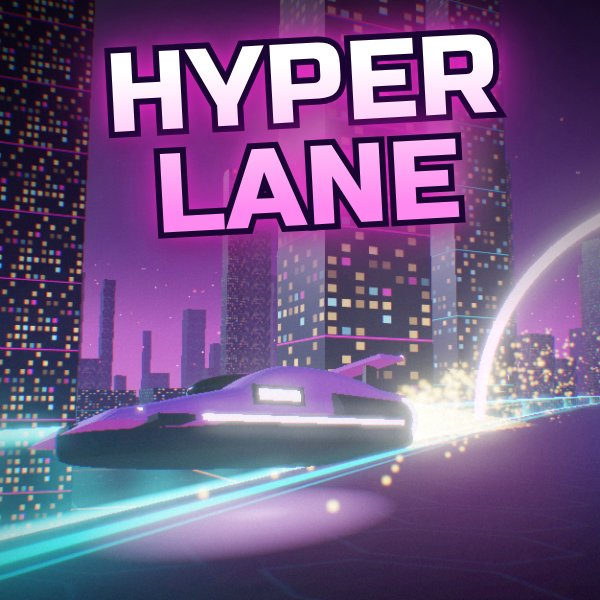
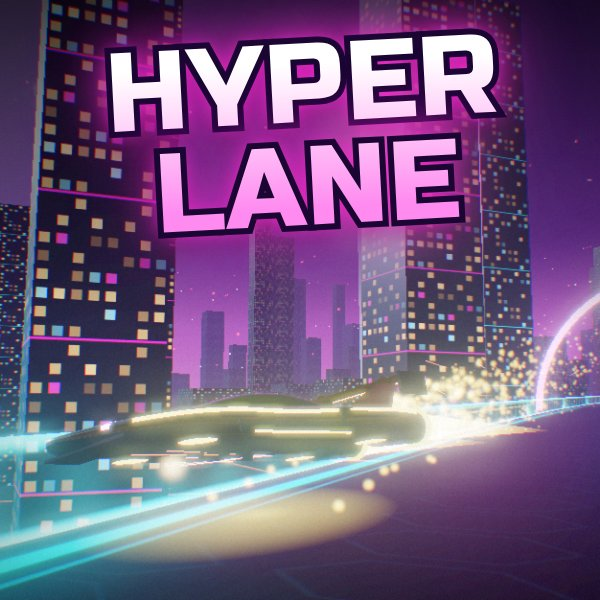
Hyperlane: sculpted sports hover car
The car body is now lofted from chiselled cross-sections (blade nose, wide
fenders, pinched waist, rear haunches) in deep clear-coated stealth paint,
with a fighter-style glass canopy, glowing shoulder lines, slanted light
slits, side blades, splitter, twin raked fins, a floating wing on swan-neck
struts, thruster nacelles and hover pads. New cover and screenshots.

Claude-Session: https://claude.ai/code/session_015d1ng3DQVJS16EdJCEDKYL

diff --git a/pulsebox/public/games/hyperlane.html b/pulsebox/public/games/hyperlane.html
@@ -507,47 +507,76 @@ const GAME = {
   }
 
   /* ---------- the hover cars ---------- */
+  // a body lofted from cross-sections along its length (rounded-square sections, flat underneath)
+  function loft(st, segs, n, sharp) {
+    const pos = [], idx = [];
+    const ring = q => {
+      if (!sharp) { const r = []; for (let j = 0; j < segs; j++) { const a = j / segs * TAU, c = Math.cos(a), si = Math.sin(a); r.push([q.w * Math.sign(c) * Math.pow(Math.abs(c), 2 / n), q.y + (si >= 0 ? q.t : q.b) * Math.sign(si) * Math.pow(Math.abs(si), 2 / n)]); } return r; }
+      const half = [[q.w * .82, q.y - q.b], [q.w, q.y - q.b * .25], [q.w * .985, q.y + q.t * .22], [q.w * .9, q.y + q.t * .42], [q.w * .62, q.y + q.t * .78], [q.w * .26, q.y + q.t * .97], [0, q.y + q.t]];
+      return [...half, ...half.slice(0, -1).reverse().map(([x, y]) => [-x, y]), [-q.w * .82, q.y - q.b].map((v, i) => v), [0, q.y - q.b]].filter((p, i, A) => i < A.length);
+    };
+    const rings = st.map(ring), S = rings[0].length, R = st.length;
+    rings.forEach((r, i) => r.forEach(([x, y]) => pos.push(x, y, st[i].z)));
+    for (let i = 0; i < R - 1; i++) for (let j = 0; j < S; j++) { const a = i * S + j, b = i * S + (j + 1) % S, c = a + S, d = b + S; idx.push(a, b, c, b, d, c); }
+    for (const [i, flip] of [[0, false], [R - 1, true]]) { const ci = pos.length / 3; pos.push(0, st[i].y, st[i].z); for (let j = 0; j < S; j++) { const a = i * S + j, b = i * S + (j + 1) % S; flip ? idx.push(ci, a, b) : idx.push(ci, b, a); } }
+    const geo = new THREE.BufferGeometry(); geo.setAttribute('position', new THREE.Float32BufferAttribute(pos, 3)); geo.setIndex(idx); geo.computeVertexNormals(); return geo;
+  }
+  // smooth the hand-placed sections with Catmull-Rom so the surface flows
+  function smoothSt(st, k) {
+    const out = [], cr = (p0, p1, p2, p3, t) => .5 * (2 * p1 + (-p0 + p2) * t + (2 * p0 - 5 * p1 + 4 * p2 - p3) * t * t + (-p0 + 3 * p1 - 3 * p2 + p3) * t * t * t);
+    for (let i = 0; i < st.length - 1; i++) for (let s = 0; s < k; s++) { const t = s / k, P = j => st[cl(j, 0, st.length - 1)], o = {}; for (const key of ['z', 'w', 'y', 't', 'b']) o[key] = cr(P(i - 1)[key], P(i)[key], P(i + 1)[key], P(i + 2)[key], t); out.push(o); }
+    out.push(st[st.length - 1]); return out;
+  }
+  const BODY = [ // z (nose -> tail), half width, centre height, height above and below the centre: a blade of a nose, wide fenders, a pinched waist, big rear haunches
+    { z: -3.05, w: .08, y: .42, t: 0.0342, b: .05 }, { z: -2.85, w: .42, y: .43, t: 0.0798, b: .08 }, { z: -2.45, w: .84, y: .46, t: 0.148, b: .11 }, { z: -1.8, w: 1.08, y: .5, t: 0.228, b: .14 },
+    { z: -1.1, w: 1.12, y: .52, t: 0.285, b: .15 }, { z: -.4, w: .97, y: .53, t: 0.331, b: .15 }, { z: .3, w: .95, y: .54, t: 0.353, b: .15 }, { z: 1.0, w: 1.15, y: .55, t: 0.353, b: .15 },
+    { z: 1.7, w: 1.23, y: .56, t: 0.331, b: .15 }, { z: 2.3, w: 1.18, y: .57, t: 0.274, b: .14 }, { z: 2.55, w: 1.02, y: .57, t: 0.194, b: .12 }];
+  const CANOPY = [{ z: -1.55, w: .06, y: .72, t: .02, b: .02 }, { z: -1.05, w: .4, y: .75, t: .13, b: .03 }, { z: -.4, w: .52, y: .78, t: .27, b: .03 }, { z: .3, w: .5, y: .81, t: .29, b: .03 },
+    { z: .95, w: .4, y: .83, t: .19, b: .03 }, { z: 1.5, w: .2, y: .84, t: .08, b: .02 }, { z: 1.8, w: .05, y: .84, t: .02, b: .02 }];
+  let BODYGEO = null;
   function carModel(col) {
     const g = new THREE.Group(), body = new THREE.Group(); g.add(body);
-    const paint = new THREE.MeshStandardMaterial({ color: col, metalness: .5, roughness: .3, envMapIntensity: 1 });
-    const carbon = new THREE.MeshStandardMaterial({ color: '#10121b', metalness: .6, roughness: .42, envMapIntensity: 1 });
-    const glass = new THREE.MeshStandardMaterial({ color: '#08101e', metalness: .95, roughness: .05, envMapIntensity: 2.2 });
-    const glow = new THREE.MeshBasicMaterial({ color: hdr(col, 2.2) }), white = new THREE.MeshBasicMaterial({ color: hdr('#cfeaff', 2.6) }), red = new THREE.MeshBasicMaterial({ color: hdr('#ff1f45', 2.4) });
-    const sh = new THREE.Shape();   // the hover base, seen from above: a long arrowhead
-    sh.moveTo(0, -2.85); sh.bezierCurveTo(.45, -2.75, .8, -1.8, 1.02, -.5); sh.lineTo(1.12, 1.6); sh.quadraticCurveTo(1.08, 2.3, .66, 2.36); sh.lineTo(-.66, 2.36); sh.quadraticCurveTo(-1.08, 2.3, -1.12, 1.6); sh.lineTo(-1.02, -.5); sh.bezierCurveTo(-.8, -1.8, -.45, -2.75, 0, -2.85);
-    const base = new THREE.ExtrudeGeometry(sh, { depth: .2, bevelEnabled: true, bevelThickness: .1, bevelSize: .1, bevelSegments: 2, curveSegments: 12 });
-    base.rotateX(Math.PI / 2); base.translate(0, .5, 0);
-    const add = (geo, mat, x = 0, y = 0, z = 0, p) => { const m = new THREE.Mesh(geo, mat); m.position.set(x, y, z); (p || body).add(m); return m; };
-    add(base, carbon);
-    // the cabin, from a side profile: low nose, raked screen, roof, sloping rear deck
-    const pr = new THREE.Shape();
-    pr.moveTo(-2.75, .5); pr.quadraticCurveTo(-2.2, .58, -1.7, .7); pr.lineTo(-.85, .86); pr.quadraticCurveTo(-.45, 1.18, .1, 1.2); pr.lineTo(.75, 1.18); pr.quadraticCurveTo(1.35, 1.1, 1.75, .96); pr.lineTo(2.3, .9); pr.lineTo(2.3, .5); pr.lineTo(-2.75, .5);
-    const cab = new THREE.ExtrudeGeometry(pr, { depth: 1.5, bevelEnabled: true, bevelThickness: .22, bevelSize: .14, bevelSegments: 4, curveSegments: 12 });
-    cab.rotateY(-Math.PI / 2); cab.translate(.75, 0, 0); add(cab, paint);
-    const can = new THREE.SphereGeometry(.6, 22, 12); can.scale(.95, .42, 1.55); add(can, glass, 0, 1.12, -.12);
-    add(new THREE.BoxGeometry(2.36, .07, .5), carbon, 0, .5, -2.1);   // front splitter
-    add(new THREE.BoxGeometry(1.9, .04, .05), white, 0, .62, -2.42);   // headlight bar
-    for (const sx of [-1, 1]) {
-      const eng = new THREE.CylinderGeometry(.3, .36, 1.6, 18); eng.rotateX(Math.PI / 2); add(eng, carbon, sx * .82, .62, 1.45);
-      add(new THREE.TorusGeometry(.31, .05, 6, 22), glow, sx * .82, .62, 2.25);
-      add(new THREE.CircleGeometry(.26, 18), new THREE.MeshBasicMaterial({ color: hdr(col, 3.4) }), sx * .82, .62, 2.26);
-      add(new THREE.BoxGeometry(.05, .07, 3.6), glow, sx * 1.2, .5, .05);                 // light strips along the base
-      add(new THREE.BoxGeometry(.18, .26, .9), carbon, sx * .9, .86, -.35);               // side intakes
-      add(new THREE.BoxGeometry(.04, .14, .7), glow, sx * 1.0, .86, -.35);
-      const st = add(new THREE.BoxGeometry(.07, .5, .25), carbon, sx * .6, 1.28, 1.95); st.rotation.x = .25;   // wing struts
+    if (!BODYGEO) {
+      const bs = smoothSt(BODY, 4);
+      BODYGEO = { body: loft(bs, 36, 3.4, true), floor: loft(bs.map(q => ({ z: q.z, w: q.w * 1.035, y: q.y - q.b * .55, t: q.b * .3, b: q.b * .55 })), 28, 3), canopy: loft(smoothSt(CANOPY, 4), 30, 2.6),
+        line: [-1, 1].map(sx => new THREE.TubeGeometry(new THREE.CatmullRomCurve3(bs.filter(q => q.z > -2.5 && q.z < 2.35).map(q => new THREE.Vector3(sx * q.w * .955, q.y + q.t * .43, q.z))), 48, .028, 5)) };
     }
-    add(new THREE.BoxGeometry(2.1, .07, .55), paint, 0, 1.55, 2.02);
-    add(new THREE.BoxGeometry(2.1, .03, .06), glow, 0, 1.59, 2.29);
-    add(new THREE.BoxGeometry(1.5, .08, .05), red, 0, .82, 2.42);
+    const deep = new THREE.Color(col).lerp(new THREE.Color('#05050a'), .66);
+    const paint = new THREE.MeshPhysicalMaterial({ color: deep, metalness: .82, roughness: .22, clearcoat: 1, clearcoatRoughness: .03, envMapIntensity: 1.05 });
+    const carbon = new THREE.MeshStandardMaterial({ color: '#0d0f16', metalness: .55, roughness: .38, envMapIntensity: .9 });
+    const glass = new THREE.MeshPhysicalMaterial({ color: '#04060c', metalness: .9, roughness: .04, clearcoat: 1, clearcoatRoughness: .02, envMapIntensity: 2.2 });
+    const glow = new THREE.MeshBasicMaterial({ color: hdr(col, 2.4) }), eye = new THREE.MeshBasicMaterial({ color: hdr('#d8f2ff', 3.2) }), red = new THREE.MeshBasicMaterial({ color: hdr('#ff1838', 2.6) });
+    const add = (geo, mat, x = 0, y = 0, z = 0, rx = 0, ry = 0, rz = 0) => { const m = new THREE.Mesh(geo, mat); m.position.set(x, y, z); m.rotation.set(rx, ry, rz); body.add(m); return m; };
+    add(BODYGEO.body, paint); add(BODYGEO.floor, carbon); add(BODYGEO.canopy, glass); BODYGEO.line.forEach(l => add(l, glow));
+    // the face: slanted light slits like narrowed eyes, a glowing intake and a carbon splitter
+    for (const sx of [-1, 1]) { add(new THREE.BoxGeometry(.6, .045, .07), eye, sx * .47, .53, -2.55, 0, sx * .7, -sx * .24); add(new THREE.BoxGeometry(.3, .03, .05), eye, sx * .74, .5, -2.3, 0, sx * .9, -sx * .3); }
+    add(new THREE.BoxGeometry(1.0, .03, .04), glow, 0, .39, -2.72);
+    add(new THREE.BoxGeometry(2.05, .035, .55), carbon, 0, .33, -2.42);
+    for (const sx of [-1, 1]) {
+      add(new THREE.BoxGeometry(.04, .17, 2.1), carbon, sx * 1.16, .42, -.15, 0, 0, sx * .22);              // side blades
+      add(new THREE.BoxGeometry(.03, .03, 1.7), glow, sx * 1.19, .35, -.15);
+      add(new THREE.BoxGeometry(.08, .2, .5), carbon, sx * 1.06, .62, .95, 0, sx * .12, 0);                // haunch intakes
+      const nac = new THREE.CylinderGeometry(.25, .31, 1.0, 20); nac.rotateX(Math.PI / 2); add(nac, carbon, sx * .68, .55, 2.3);
+      add(new THREE.TorusGeometry(.27, .05, 8, 24), new THREE.MeshBasicMaterial({ color: hdr(col, 1.6) }), sx * .68, .55, 2.8);
+      add(new THREE.CircleGeometry(.23, 20), new THREE.MeshBasicMaterial({ color: hdr(col, 1.7) }), sx * .68, .55, 2.81);
+      add(new THREE.BoxGeometry(.05, .5, .13), carbon, sx * .48, 1.02, 2.12, -.35, 0, 0);                   // swan-neck wing struts
+      add(new THREE.BoxGeometry(.05, .34, .62), carbon, sx * 1.22, 1.12, 2.2);                             // wing end plates
+      for (const sz of [-1, 1]) add(new THREE.CircleGeometry(.24, 16), glow, sx * .78, .3, sz * 1.55, Math.PI / 2);   // hover pads
+    }
+    for (const sx of [-1, 1]) { const fin = new THREE.Shape(); fin.moveTo(0, 0); fin.lineTo(.95, 0); fin.lineTo(1.05, .5); fin.lineTo(.75, .52); fin.closePath(); const fg = new THREE.ExtrudeGeometry(fin, { depth: .04, bevelEnabled: false }); fg.rotateY(-Math.PI / 2); add(fg, paint, sx * .62, .82, 1.35, 0, 0, -sx * .2); }
+    add(new THREE.BoxGeometry(2.44, .05, .5), paint, 0, 1.25, 2.2, -.1);
+    add(new THREE.BoxGeometry(2.44, .025, .04), glow, 0, 1.25, 2.46);
+    add(new THREE.BoxGeometry(1.95, .045, .04), red, 0, .72, 2.5);
+    add(new THREE.BoxGeometry(.6, .03, .04), red, 0, .5, 2.52);
     // underglow on the road and the engine flames
     const ug = new THREE.Mesh(new THREE.PlaneGeometry(3.6, 6.4).rotateX(-Math.PI / 2), new THREE.MeshBasicMaterial({ map: X.glowTex, color: hdr(col, 1.1), blending: THREE.AdditiveBlending, transparent: true, depthWrite: false }));
     ug.position.y = -.56; g.add(ug);
     const flames = [];
     for (const sx of [-1, 1]) {
-      const fg = new THREE.ConeGeometry(.24, 1.8, 12, 1, true); fg.rotateX(Math.PI / 2); fg.translate(0, 0, .9);
+      const fg = new THREE.ConeGeometry(.17, 1.8, 12, 1, true); fg.rotateX(Math.PI / 2); fg.translate(0, 0, .9);
       const fm = new THREE.ShaderMaterial({ uniforms: { col: { value: hdr(col, 3) }, k: { value: 1 } }, vertexShader: 'varying float vT; void main(){ vT = position.z / 1.8; gl_Position = projectionMatrix * modelViewMatrix * vec4(position, 1.); }',
         fragmentShader: 'uniform vec3 col; uniform float k; varying float vT; void main(){ gl_FragColor = vec4(col * pow(1. - vT, 1.6) * k, 1.); }', blending: THREE.AdditiveBlending, depthWrite: false, transparent: true, side: THREE.DoubleSide });
-      const f = new THREE.Mesh(fg, fm); f.position.set(sx * .82, .62, 2.25); body.add(f); flames.push(f);
+      const f = new THREE.Mesh(fg, fm); f.position.set(sx * .68, .55, 2.8); body.add(f); flames.push(f);
     }
     return { g, body, ug, flames, paint, glow };
   }
@@ -559,7 +588,7 @@ const GAME = {
     }
     return v;
   }
-  function clearCars() { for (const v of X.cars.values()) { X.scene.remove(v.g, v.trails[0].mesh, v.trails[1].mesh); v.g.traverse(o => { if (o.geometry) o.geometry.dispose(); }); v.trails.forEach(t => t.geo.dispose()); } X.cars.clear(); }
+  function clearCars() { const keep = BODYGEO ? new Set([BODYGEO.body, BODYGEO.floor, BODYGEO.canopy, ...BODYGEO.line]) : new Set(); for (const v of X.cars.values()) { X.scene.remove(v.g, v.trails[0].mesh, v.trails[1].mesh); v.g.traverse(o => { if (o.geometry && !keep.has(o.geometry)) o.geometry.dispose(); }); v.trails.forEach(t => t.geo.dispose()); } X.cars.clear(); }
 
   /* ---------- the track: road, energy rails, light gates, boost pads, the start gantry, pillars ---------- */
   function ribbon(T, a0, h0, a1, h1, vs, step = 1) {
@@ -1043,13 +1072,13 @@ const GAME = {
       v.pitch = lp(v.pitch || 0, (c.turbo > 0 || c.odT > 0 ? .05 : 0) - (c.inp.brake ? .05 : 0), Math.min(1, dt * 5));
       v.body.rotation.set(v.pitch, v.slip, v.roll);
       const boost = c.odT > 0 ? 3 : c.turbo > 0 ? 2 : c.padT > 0 ? 1.4 : 0, fl = .45 + (race.t > 0 ? .5 : .1) + boost * .7 + Math.random() * .25;
-      const fc = c.odT > 0 ? col('#ffd0ff', 3.2) : c.turbo > 0 ? col(TCOL[c.tlvl], 2.8) : col(c.col, 1.8);
+      const fc = c.odT > 0 ? col('#ffd0ff', 2.6) : c.turbo > 0 ? col(TCOL[c.tlvl], 2.2) : col(c.col, 1.25);
       v.flames.forEach(f => { f.scale.set(1 + boost * .15, 1 + boost * .15, fl); f.material.uniforms.col.value = fc; });
       v.ug.material.color.copy(col(c.col, .32 + Math.round(c.v / 30) * .06 + (c.drift ? .25 : 0)));
       // ribbons from both engines
       const tc = c.odT > 0 ? col('#ff7ae8', 1.6) : c.turbo > 0 ? col(TCOL[c.tlvl], 1.4) : c.padT > 0 ? col(D.c2, 1.2) : col(c.col, .6);
       for (let k = 0; k < 2; k++) {
-        const sx = k ? .82 : -.82, np = [0, 0, 0]; for (let i = 0; i < 3; i++) np[i] = P.p[i] + P.r[i] * sx + P.u[i] * .62 - P.f[i] * 2.4;
+        const sx = k ? .68 : -.68, np = [0, 0, 0]; for (let i = 0; i < 3; i++) np[i] = P.p[i] + P.r[i] * sx + P.u[i] * .55 - P.f[i] * 2.95;
         const tr = v.trails[k], mine = race.cam.mode === 'chase' && c === race.cars[race.me]; tr.mesh.visible = true; tr.mat.uniforms.col.value = tc; stepTrail(tr, np, P.r, boost ? .3 : .2, race.t > 0 ? (mine ? .35 : 1) : 0);
       }
       // drift sparks under the tail, coloured by the charge

diff --git a/pulsebox/src/games/hyperlane.js b/pulsebox/src/games/hyperlane.js
@@ -336,47 +336,76 @@ const GAME = {
   }
 
   /* ---------- the hover cars ---------- */
+  // a body lofted from cross-sections along its length (rounded-square sections, flat underneath)
+  function loft(st, segs, n, sharp) {
+    const pos = [], idx = [];
+    const ring = q => {
+      if (!sharp) { const r = []; for (let j = 0; j < segs; j++) { const a = j / segs * TAU, c = Math.cos(a), si = Math.sin(a); r.push([q.w * Math.sign(c) * Math.pow(Math.abs(c), 2 / n), q.y + (si >= 0 ? q.t : q.b) * Math.sign(si) * Math.pow(Math.abs(si), 2 / n)]); } return r; }
+      const half = [[q.w * .82, q.y - q.b], [q.w, q.y - q.b * .25], [q.w * .985, q.y + q.t * .22], [q.w * .9, q.y + q.t * .42], [q.w * .62, q.y + q.t * .78], [q.w * .26, q.y + q.t * .97], [0, q.y + q.t]];
+      return [...half, ...half.slice(0, -1).reverse().map(([x, y]) => [-x, y]), [-q.w * .82, q.y - q.b].map((v, i) => v), [0, q.y - q.b]].filter((p, i, A) => i < A.length);
+    };
+    const rings = st.map(ring), S = rings[0].length, R = st.length;
+    rings.forEach((r, i) => r.forEach(([x, y]) => pos.push(x, y, st[i].z)));
+    for (let i = 0; i < R - 1; i++) for (let j = 0; j < S; j++) { const a = i * S + j, b = i * S + (j + 1) % S, c = a + S, d = b + S; idx.push(a, b, c, b, d, c); }
+    for (const [i, flip] of [[0, false], [R - 1, true]]) { const ci = pos.length / 3; pos.push(0, st[i].y, st[i].z); for (let j = 0; j < S; j++) { const a = i * S + j, b = i * S + (j + 1) % S; flip ? idx.push(ci, a, b) : idx.push(ci, b, a); } }
+    const geo = new THREE.BufferGeometry(); geo.setAttribute('position', new THREE.Float32BufferAttribute(pos, 3)); geo.setIndex(idx); geo.computeVertexNormals(); return geo;
+  }
+  // smooth the hand-placed sections with Catmull-Rom so the surface flows
+  function smoothSt(st, k) {
+    const out = [], cr = (p0, p1, p2, p3, t) => .5 * (2 * p1 + (-p0 + p2) * t + (2 * p0 - 5 * p1 + 4 * p2 - p3) * t * t + (-p0 + 3 * p1 - 3 * p2 + p3) * t * t * t);
+    for (let i = 0; i < st.length - 1; i++) for (let s = 0; s < k; s++) { const t = s / k, P = j => st[cl(j, 0, st.length - 1)], o = {}; for (const key of ['z', 'w', 'y', 't', 'b']) o[key] = cr(P(i - 1)[key], P(i)[key], P(i + 1)[key], P(i + 2)[key], t); out.push(o); }
+    out.push(st[st.length - 1]); return out;
+  }
+  const BODY = [ // z (nose -> tail), half width, centre height, height above and below the centre: a blade of a nose, wide fenders, a pinched waist, big rear haunches
+    { z: -3.05, w: .08, y: .42, t: 0.0342, b: .05 }, { z: -2.85, w: .42, y: .43, t: 0.0798, b: .08 }, { z: -2.45, w: .84, y: .46, t: 0.148, b: .11 }, { z: -1.8, w: 1.08, y: .5, t: 0.228, b: .14 },
+    { z: -1.1, w: 1.12, y: .52, t: 0.285, b: .15 }, { z: -.4, w: .97, y: .53, t: 0.331, b: .15 }, { z: .3, w: .95, y: .54, t: 0.353, b: .15 }, { z: 1.0, w: 1.15, y: .55, t: 0.353, b: .15 },
+    { z: 1.7, w: 1.23, y: .56, t: 0.331, b: .15 }, { z: 2.3, w: 1.18, y: .57, t: 0.274, b: .14 }, { z: 2.55, w: 1.02, y: .57, t: 0.194, b: .12 }];
+  const CANOPY = [{ z: -1.55, w: .06, y: .72, t: .02, b: .02 }, { z: -1.05, w: .4, y: .75, t: .13, b: .03 }, { z: -.4, w: .52, y: .78, t: .27, b: .03 }, { z: .3, w: .5, y: .81, t: .29, b: .03 },
+    { z: .95, w: .4, y: .83, t: .19, b: .03 }, { z: 1.5, w: .2, y: .84, t: .08, b: .02 }, { z: 1.8, w: .05, y: .84, t: .02, b: .02 }];
+  let BODYGEO = null;
   function carModel(col) {
     const g = new THREE.Group(), body = new THREE.Group(); g.add(body);
-    const paint = new THREE.MeshStandardMaterial({ color: col, metalness: .5, roughness: .3, envMapIntensity: 1 });
-    const carbon = new THREE.MeshStandardMaterial({ color: '#10121b', metalness: .6, roughness: .42, envMapIntensity: 1 });
-    const glass = new THREE.MeshStandardMaterial({ color: '#08101e', metalness: .95, roughness: .05, envMapIntensity: 2.2 });
-    const glow = new THREE.MeshBasicMaterial({ color: hdr(col, 2.2) }), white = new THREE.MeshBasicMaterial({ color: hdr('#cfeaff', 2.6) }), red = new THREE.MeshBasicMaterial({ color: hdr('#ff1f45', 2.4) });
-    const sh = new THREE.Shape();   // the hover base, seen from above: a long arrowhead
-    sh.moveTo(0, -2.85); sh.bezierCurveTo(.45, -2.75, .8, -1.8, 1.02, -.5); sh.lineTo(1.12, 1.6); sh.quadraticCurveTo(1.08, 2.3, .66, 2.36); sh.lineTo(-.66, 2.36); sh.quadraticCurveTo(-1.08, 2.3, -1.12, 1.6); sh.lineTo(-1.02, -.5); sh.bezierCurveTo(-.8, -1.8, -.45, -2.75, 0, -2.85);
-    const base = new THREE.ExtrudeGeometry(sh, { depth: .2, bevelEnabled: true, bevelThickness: .1, bevelSize: .1, bevelSegments: 2, curveSegments: 12 });
-    base.rotateX(Math.PI / 2); base.translate(0, .5, 0);
-    const add = (geo, mat, x = 0, y = 0, z = 0, p) => { const m = new THREE.Mesh(geo, mat); m.position.set(x, y, z); (p || body).add(m); return m; };
-    add(base, carbon);
-    // the cabin, from a side profile: low nose, raked screen, roof, sloping rear deck
-    const pr = new THREE.Shape();
-    pr.moveTo(-2.75, .5); pr.quadraticCurveTo(-2.2, .58, -1.7, .7); pr.lineTo(-.85, .86); pr.quadraticCurveTo(-.45, 1.18, .1, 1.2); pr.lineTo(.75, 1.18); pr.quadraticCurveTo(1.35, 1.1, 1.75, .96); pr.lineTo(2.3, .9); pr.lineTo(2.3, .5); pr.lineTo(-2.75, .5);
-    const cab = new THREE.ExtrudeGeometry(pr, { depth: 1.5, bevelEnabled: true, bevelThickness: .22, bevelSize: .14, bevelSegments: 4, curveSegments: 12 });
-    cab.rotateY(-Math.PI / 2); cab.translate(.75, 0, 0); add(cab, paint);
-    const can = new THREE.SphereGeometry(.6, 22, 12); can.scale(.95, .42, 1.55); add(can, glass, 0, 1.12, -.12);
-    add(new THREE.BoxGeometry(2.36, .07, .5), carbon, 0, .5, -2.1);   // front splitter
-    add(new THREE.BoxGeometry(1.9, .04, .05), white, 0, .62, -2.42);   // headlight bar
-    for (const sx of [-1, 1]) {
-      const eng = new THREE.CylinderGeometry(.3, .36, 1.6, 18); eng.rotateX(Math.PI / 2); add(eng, carbon, sx * .82, .62, 1.45);
-      add(new THREE.TorusGeometry(.31, .05, 6, 22), glow, sx * .82, .62, 2.25);
-      add(new THREE.CircleGeometry(.26, 18), new THREE.MeshBasicMaterial({ color: hdr(col, 3.4) }), sx * .82, .62, 2.26);
-      add(new THREE.BoxGeometry(.05, .07, 3.6), glow, sx * 1.2, .5, .05);                 // light strips along the base
-      add(new THREE.BoxGeometry(.18, .26, .9), carbon, sx * .9, .86, -.35);               // side intakes
-      add(new THREE.BoxGeometry(.04, .14, .7), glow, sx * 1.0, .86, -.35);
-      const st = add(new THREE.BoxGeometry(.07, .5, .25), carbon, sx * .6, 1.28, 1.95); st.rotation.x = .25;   // wing struts
+    if (!BODYGEO) {
+      const bs = smoothSt(BODY, 4);
+      BODYGEO = { body: loft(bs, 36, 3.4, true), floor: loft(bs.map(q => ({ z: q.z, w: q.w * 1.035, y: q.y - q.b * .55, t: q.b * .3, b: q.b * .55 })), 28, 3), canopy: loft(smoothSt(CANOPY, 4), 30, 2.6),
+        line: [-1, 1].map(sx => new THREE.TubeGeometry(new THREE.CatmullRomCurve3(bs.filter(q => q.z > -2.5 && q.z < 2.35).map(q => new THREE.Vector3(sx * q.w * .955, q.y + q.t * .43, q.z))), 48, .028, 5)) };
     }
-    add(new THREE.BoxGeometry(2.1, .07, .55), paint, 0, 1.55, 2.02);
-    add(new THREE.BoxGeometry(2.1, .03, .06), glow, 0, 1.59, 2.29);
-    add(new THREE.BoxGeometry(1.5, .08, .05), red, 0, .82, 2.42);
+    const deep = new THREE.Color(col).lerp(new THREE.Color('#05050a'), .66);
+    const paint = new THREE.MeshPhysicalMaterial({ color: deep, metalness: .82, roughness: .22, clearcoat: 1, clearcoatRoughness: .03, envMapIntensity: 1.05 });
+    const carbon = new THREE.MeshStandardMaterial({ color: '#0d0f16', metalness: .55, roughness: .38, envMapIntensity: .9 });
+    const glass = new THREE.MeshPhysicalMaterial({ color: '#04060c', metalness: .9, roughness: .04, clearcoat: 1, clearcoatRoughness: .02, envMapIntensity: 2.2 });
+    const glow = new THREE.MeshBasicMaterial({ color: hdr(col, 2.4) }), eye = new THREE.MeshBasicMaterial({ color: hdr('#d8f2ff', 3.2) }), red = new THREE.MeshBasicMaterial({ color: hdr('#ff1838', 2.6) });
+    const add = (geo, mat, x = 0, y = 0, z = 0, rx = 0, ry = 0, rz = 0) => { const m = new THREE.Mesh(geo, mat); m.position.set(x, y, z); m.rotation.set(rx, ry, rz); body.add(m); return m; };
+    add(BODYGEO.body, paint); add(BODYGEO.floor, carbon); add(BODYGEO.canopy, glass); BODYGEO.line.forEach(l => add(l, glow));
+    // the face: slanted light slits like narrowed eyes, a glowing intake and a carbon splitter
+    for (const sx of [-1, 1]) { add(new THREE.BoxGeometry(.6, .045, .07), eye, sx * .47, .53, -2.55, 0, sx * .7, -sx * .24); add(new THREE.BoxGeometry(.3, .03, .05), eye, sx * .74, .5, -2.3, 0, sx * .9, -sx * .3); }
+    add(new THREE.BoxGeometry(1.0, .03, .04), glow, 0, .39, -2.72);
+    add(new THREE.BoxGeometry(2.05, .035, .55), carbon, 0, .33, -2.42);
+    for (const sx of [-1, 1]) {
+      add(new THREE.BoxGeometry(.04, .17, 2.1), carbon, sx * 1.16, .42, -.15, 0, 0, sx * .22);              // side blades
+      add(new THREE.BoxGeometry(.03, .03, 1.7), glow, sx * 1.19, .35, -.15);
+      add(new THREE.BoxGeometry(.08, .2, .5), carbon, sx * 1.06, .62, .95, 0, sx * .12, 0);                // haunch intakes
+      const nac = new THREE.CylinderGeometry(.25, .31, 1.0, 20); nac.rotateX(Math.PI / 2); add(nac, carbon, sx * .68, .55, 2.3);
+      add(new THREE.TorusGeometry(.27, .05, 8, 24), new THREE.MeshBasicMaterial({ color: hdr(col, 1.6) }), sx * .68, .55, 2.8);
+      add(new THREE.CircleGeometry(.23, 20), new THREE.MeshBasicMaterial({ color: hdr(col, 1.7) }), sx * .68, .55, 2.81);
+      add(new THREE.BoxGeometry(.05, .5, .13), carbon, sx * .48, 1.02, 2.12, -.35, 0, 0);                   // swan-neck wing struts
+      add(new THREE.BoxGeometry(.05, .34, .62), carbon, sx * 1.22, 1.12, 2.2);                             // wing end plates
+      for (const sz of [-1, 1]) add(new THREE.CircleGeometry(.24, 16), glow, sx * .78, .3, sz * 1.55, Math.PI / 2);   // hover pads
+    }
+    for (const sx of [-1, 1]) { const fin = new THREE.Shape(); fin.moveTo(0, 0); fin.lineTo(.95, 0); fin.lineTo(1.05, .5); fin.lineTo(.75, .52); fin.closePath(); const fg = new THREE.ExtrudeGeometry(fin, { depth: .04, bevelEnabled: false }); fg.rotateY(-Math.PI / 2); add(fg, paint, sx * .62, .82, 1.35, 0, 0, -sx * .2); }
+    add(new THREE.BoxGeometry(2.44, .05, .5), paint, 0, 1.25, 2.2, -.1);
+    add(new THREE.BoxGeometry(2.44, .025, .04), glow, 0, 1.25, 2.46);
+    add(new THREE.BoxGeometry(1.95, .045, .04), red, 0, .72, 2.5);
+    add(new THREE.BoxGeometry(.6, .03, .04), red, 0, .5, 2.52);
     // underglow on the road and the engine flames
     const ug = new THREE.Mesh(new THREE.PlaneGeometry(3.6, 6.4).rotateX(-Math.PI / 2), new THREE.MeshBasicMaterial({ map: X.glowTex, color: hdr(col, 1.1), blending: THREE.AdditiveBlending, transparent: true, depthWrite: false }));
     ug.position.y = -.56; g.add(ug);
     const flames = [];
     for (const sx of [-1, 1]) {
-      const fg = new THREE.ConeGeometry(.24, 1.8, 12, 1, true); fg.rotateX(Math.PI / 2); fg.translate(0, 0, .9);
+      const fg = new THREE.ConeGeometry(.17, 1.8, 12, 1, true); fg.rotateX(Math.PI / 2); fg.translate(0, 0, .9);
       const fm = new THREE.ShaderMaterial({ uniforms: { col: { value: hdr(col, 3) }, k: { value: 1 } }, vertexShader: 'varying float vT; void main(){ vT = position.z / 1.8; gl_Position = projectionMatrix * modelViewMatrix * vec4(position, 1.); }',
         fragmentShader: 'uniform vec3 col; uniform float k; varying float vT; void main(){ gl_FragColor = vec4(col * pow(1. - vT, 1.6) * k, 1.); }', blending: THREE.AdditiveBlending, depthWrite: false, transparent: true, side: THREE.DoubleSide });
-      const f = new THREE.Mesh(fg, fm); f.position.set(sx * .82, .62, 2.25); body.add(f); flames.push(f);
+      const f = new THREE.Mesh(fg, fm); f.position.set(sx * .68, .55, 2.8); body.add(f); flames.push(f);
     }
     return { g, body, ug, flames, paint, glow };
   }
@@ -388,7 +417,7 @@ const GAME = {
     }
     return v;
   }
-  function clearCars() { for (const v of X.cars.values()) { X.scene.remove(v.g, v.trails[0].mesh, v.trails[1].mesh); v.g.traverse(o => { if (o.geometry) o.geometry.dispose(); }); v.trails.forEach(t => t.geo.dispose()); } X.cars.clear(); }
+  function clearCars() { const keep = BODYGEO ? new Set([BODYGEO.body, BODYGEO.floor, BODYGEO.canopy, ...BODYGEO.line]) : new Set(); for (const v of X.cars.values()) { X.scene.remove(v.g, v.trails[0].mesh, v.trails[1].mesh); v.g.traverse(o => { if (o.geometry && !keep.has(o.geometry)) o.geometry.dispose(); }); v.trails.forEach(t => t.geo.dispose()); } X.cars.clear(); }
 
   /* ---------- the track: road, energy rails, light gates, boost pads, the start gantry, pillars ---------- */
   function ribbon(T, a0, h0, a1, h1, vs, step = 1) {
@@ -872,13 +901,13 @@ const GAME = {
       v.pitch = lp(v.pitch || 0, (c.turbo > 0 || c.odT > 0 ? .05 : 0) - (c.inp.brake ? .05 : 0), Math.min(1, dt * 5));
       v.body.rotation.set(v.pitch, v.slip, v.roll);
       const boost = c.odT > 0 ? 3 : c.turbo > 0 ? 2 : c.padT > 0 ? 1.4 : 0, fl = .45 + (race.t > 0 ? .5 : .1) + boost * .7 + Math.random() * .25;
-      const fc = c.odT > 0 ? col('#ffd0ff', 3.2) : c.turbo > 0 ? col(TCOL[c.tlvl], 2.8) : col(c.col, 1.8);
+      const fc = c.odT > 0 ? col('#ffd0ff', 2.6) : c.turbo > 0 ? col(TCOL[c.tlvl], 2.2) : col(c.col, 1.25);
       v.flames.forEach(f => { f.scale.set(1 + boost * .15, 1 + boost * .15, fl); f.material.uniforms.col.value = fc; });
       v.ug.material.color.copy(col(c.col, .32 + Math.round(c.v / 30) * .06 + (c.drift ? .25 : 0)));
       // ribbons from both engines
       const tc = c.odT > 0 ? col('#ff7ae8', 1.6) : c.turbo > 0 ? col(TCOL[c.tlvl], 1.4) : c.padT > 0 ? col(D.c2, 1.2) : col(c.col, .6);
       for (let k = 0; k < 2; k++) {
-        const sx = k ? .82 : -.82, np = [0, 0, 0]; for (let i = 0; i < 3; i++) np[i] = P.p[i] + P.r[i] * sx + P.u[i] * .62 - P.f[i] * 2.4;
+        const sx = k ? .68 : -.68, np = [0, 0, 0]; for (let i = 0; i < 3; i++) np[i] = P.p[i] + P.r[i] * sx + P.u[i] * .55 - P.f[i] * 2.95;
         const tr = v.trails[k], mine = race.cam.mode === 'chase' && c === race.cars[race.me]; tr.mesh.visible = true; tr.mat.uniforms.col.value = tc; stepTrail(tr, np, P.r, boost ? .3 : .2, race.t > 0 ? (mine ? .35 : 1) : 0);
       }
       // drift sparks under the tail, coloured by the charge
